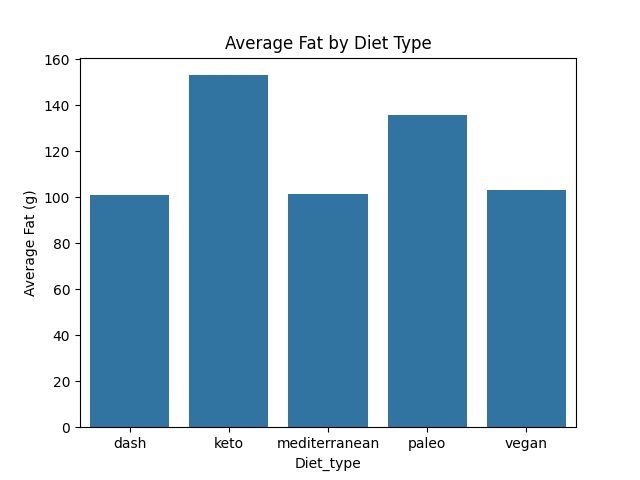
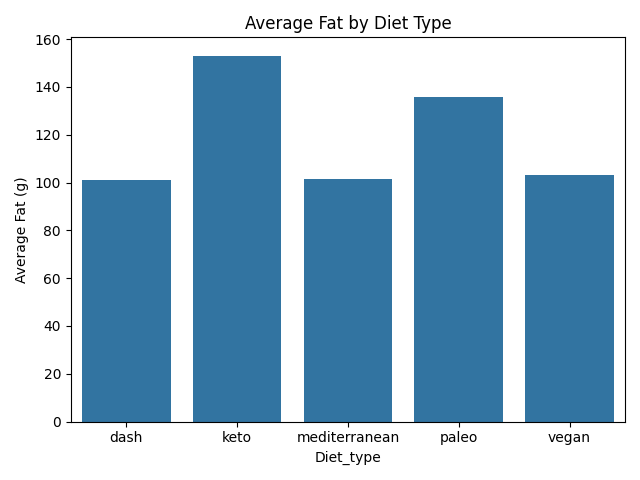
Enhancements for Task5
Cleaned up the Docker setup to make builds faster and lighter, updated the data analysis script to run smoothly in containers (no pop-up plots), and refreshed all the generated charts.

Changed region(s): [[0.0, 0.0312, 0.9688, 1.0], [0.0625, 0.0625, 0.125, 0.3438]]

diff --git a/data_analysis.py b/data_analysis.py
@@ -12,10 +12,10 @@ print("Dataset shape:", df.shape)
 
 # -------------------------
 # Handle missing values
+# Task 5: Replaced the 3 sepate fillna calls with a single call that fills all macronutrient columns at once using their respective means. This is more efficient and cleaner.
 # -------------------------
-df["Protein(g)"] = df["Protein(g)"].fillna(df["Protein(g)"].mean())
-df["Fat(g)"] = df["Fat(g)"].fillna(df["Fat(g)"].mean())
-df["Carbs(g)"] = df["Carbs(g)"].fillna(df["Carbs(g)"].mean())
+macro_cols = ["Protein(g)", "Carbs(g)", "Fat(g)"]
+df[macro_cols] = df[macro_cols].fillna(df[macro_cols].mean())
 
 print("Missing values handled")
 
@@ -56,35 +56,40 @@ print("Output files saved")
 
 # -------------------------
 # Visualizations
+# Task 5: Changed plt.show() to plt.close() after saving each figure. This allows the script to run in headless environments (like Docker) without issues and prevents blocking execution.
 # -------------------------
 
 # Protein bar chart
 sns.barplot(x=avg_macros.index, y=avg_macros["Protein(g)"])
 plt.title("Average Protein by Diet Type")
 plt.ylabel("Average Protein (g)")
+plt.tight_layout()
 plt.savefig("res/png/protein_chart.png")
-plt.show()
+plt.close()
 
 # Carbs bar chart
 sns.barplot(x=avg_macros.index, y=avg_macros["Carbs(g)"])
 plt.title("Average Carbs by Diet Type")
 plt.ylabel("Average Carbs (g)")
+plt.tight_layout()
 plt.savefig("res/png/carbs_chart.png")
-plt.show()
+plt.close()
 
 # Fat bar chart
 sns.barplot(x=avg_macros.index, y=avg_macros["Fat(g)"])
 plt.title("Average Fat by Diet Type")
 plt.ylabel("Average Fat (g)")
+plt.tight_layout()
 plt.savefig("res/png/fat_chart.png")
-plt.show()
+plt.close()
 
 # Heatmap
 sns.heatmap(avg_macros, annot=True, cmap="YlGnBu")
 plt.title("Macronutrient Content by Diet Type")
 plt.xlabel("Macronutrients")
+plt.tight_layout()
 plt.savefig("res/png/heatmap.png")
-plt.show()
+plt.close()
 
 # Scatter plot
 sns.scatterplot(
@@ -98,7 +103,8 @@ plt.title("Top 5 Protein-Rich Recipes by Diet Type")
 plt.ylabel("Protein (g)")
 plt.xlabel("Recipe Index")
 plt.legend(title="Diet Type")
+plt.tight_layout()
 plt.savefig("res/png/scatter_plot.png")
-plt.show()
+plt.close()
 
 print("Data analysis complete.")
